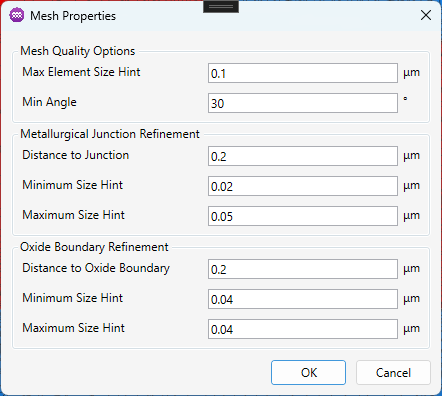
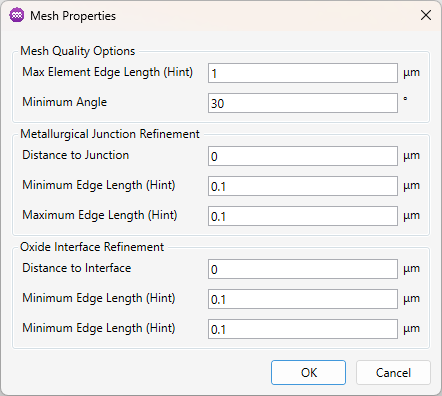
Updated mesh setting names

diff --git a/docs/device-editor/finite-element-mesh/triangular-mesh-generation.md b/docs/device-editor/finite-element-mesh/triangular-mesh-generation.md
@@ -6,7 +6,7 @@ import useBaseUrl from '@docusaurus/useBaseUrl';
 
 # Unstructured Mesh Generation
 This is the default meshing method. 
-The mesh is constructed out of triangles and is refined near the metallurgical junction, oxide boundaries and in user defined [mesh windows](/device-editor/finite-element-mesh/mesh-windows).
+The mesh is constructed out of triangles and is refined near the metallurgical junction, oxide interfaces and in user defined [mesh windows](/device-editor/finite-element-mesh/mesh-windows).
 The mesh technique can be toggled between this and the [structured mesh](/device-editor/finite-element-mesh/mesh-generation) from the menu via Mesh -> Use Unstructured Mesh.
 
 ## Usage Instructions
@@ -19,8 +19,8 @@ To generate a finite element model:
   <img src={useBaseUrl('img/device-editor/finite-element-mesh/triangular-mesh-generation/01.png')} width="800"/>
 </p>
 
-2. From this window various mesh size hints can be defined. These give the approximate size of mesh elements in the device.
-   The size of the mesh can be specified for the whole device and near the metallurgical junction and oxide boundary.
+2. From this window various edge lengths can be defined. These give the approximate edge lengths of mesh elements in the device.
+   The edge length can be specified for the whole device and near the metallurgical junction and oxide interface.
    If you require mesh refinement in other areas you can add [mesh windows](/device-editor/finite-element-mesh/mesh-windows).
 
 <p align="center">
@@ -29,7 +29,7 @@ To generate a finite element model:
 
 3. Once you are satisfied with the settings, click `OK` to generate the mesh.
 
-4. Depending on the complexity of the device model and the meshing grid, the generation process may take some time.
+4. Depending on the complexity of the device model and the edge lengths, the generation process may take some time.
    The progress of the mesh generation will be displayed in the status window in the centre of the screen.
    Once complete, the finished FE model will be displayed.
    The P and N regions of the device will be shown in red and blue, highlighting the position of the metallurgical junction, which is the point where the net doping concentration is zero Atoms/cm³.
@@ -42,13 +42,13 @@ To generate a finite element model:
 
 <div class="properties-table">
 
-| Name                       | Description                                                                                                                                            | Unit      |
-|----------------------------|--------------------------------------------------------------------------------------------------------------------------------------------------------|-----------|
-| Max Element Size Hint      | The approximate size of mesh elements throughout the whole device.                                                                                     | Microns   |
-| Min Angle                  | Triangles in the mesh will have internal angles above this value. This affects the smoothness of the mesh but higher values can cause meshing to fail. | Degrees   |
-| Distance to Junction       | Additional refinement will be applied to elements within this distance to the metallurgical junction. The size of elements will scale linearly from the minimum size at the junction to the maximum size at this distance  | Microns |
-| Distance to Oxide Boundary | Additional refinement will be applied to elements within this distance to the oxide boundary. The size of elements will scale linearly from the minimum size at the boundary to the maximum size at this distance          | Microns |
-| Minimum Size Hint          | The approximate size of mesh elements at the junction/boundary.                                                                                        | Microns   |
-| Maximum Size Hint          | The approximate size of mesh elements at the specified distance to the junction/boundary.                                                              | Microns   |
+| Name                           | Description                                                                                                                                            | Unit      |
+|--------------------------------|--------------------------------------------------------------------------------------------------------------------------------------------------------|-----------|
+| Max Element Edge Length (Hint) | The approximate maximum edge length of mesh elements throughout the whole device.                                                                      | Microns   |
+| Minimum Angle                  | Triangles in the mesh will have internal angles above this value. This affects the smoothness of the mesh but higher values can cause meshing to fail. | Degrees   |
+| Distance to Junction           | Additional refinement will be applied to elements within this distance to the metallurgical junction. The size of elements will scale linearly from the minimum size at the junction to the maximum size at this distance  | Microns |
+| Distance to Interface          | Additional refinement will be applied to elements within this distance to the oxide interface. The size of elements will scale linearly from the minimum size at the boundary to the maximum size at this distance          | Microns |
+| Minimum Edge Length (Hint)     | The approximate edge length of mesh elements at the junction/boundary.                                                                                 | Microns   |
+| Maximum Edge Length (Hint)     | The approximate edge length of mesh elements at the specified distance to the junction/boundary.                                                       | Microns   |
 
 </div>
